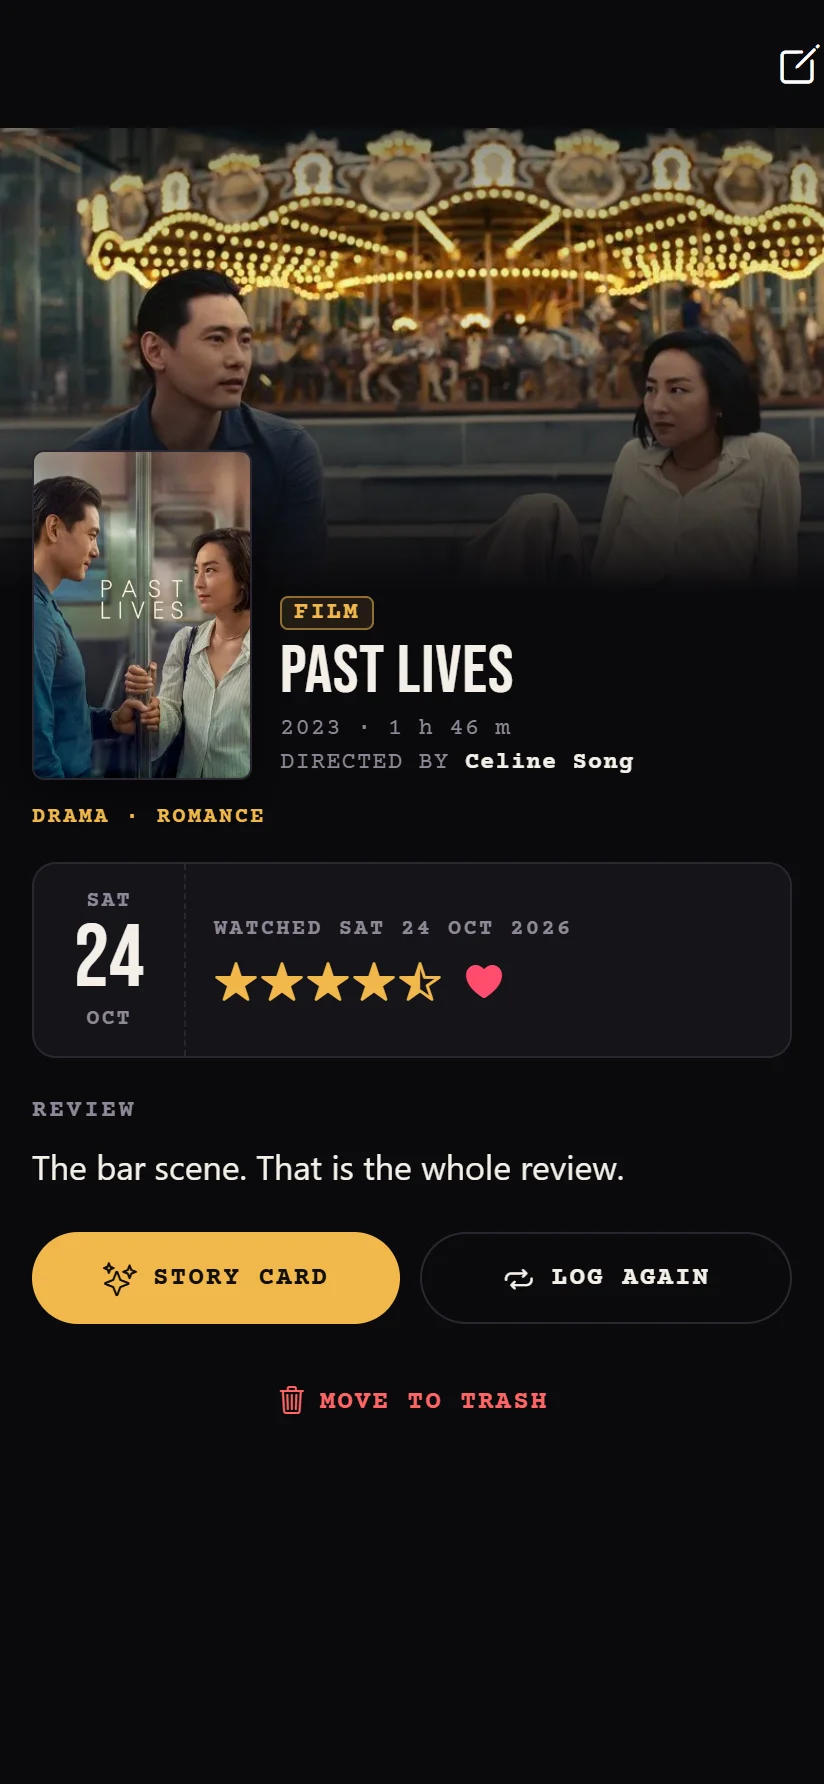
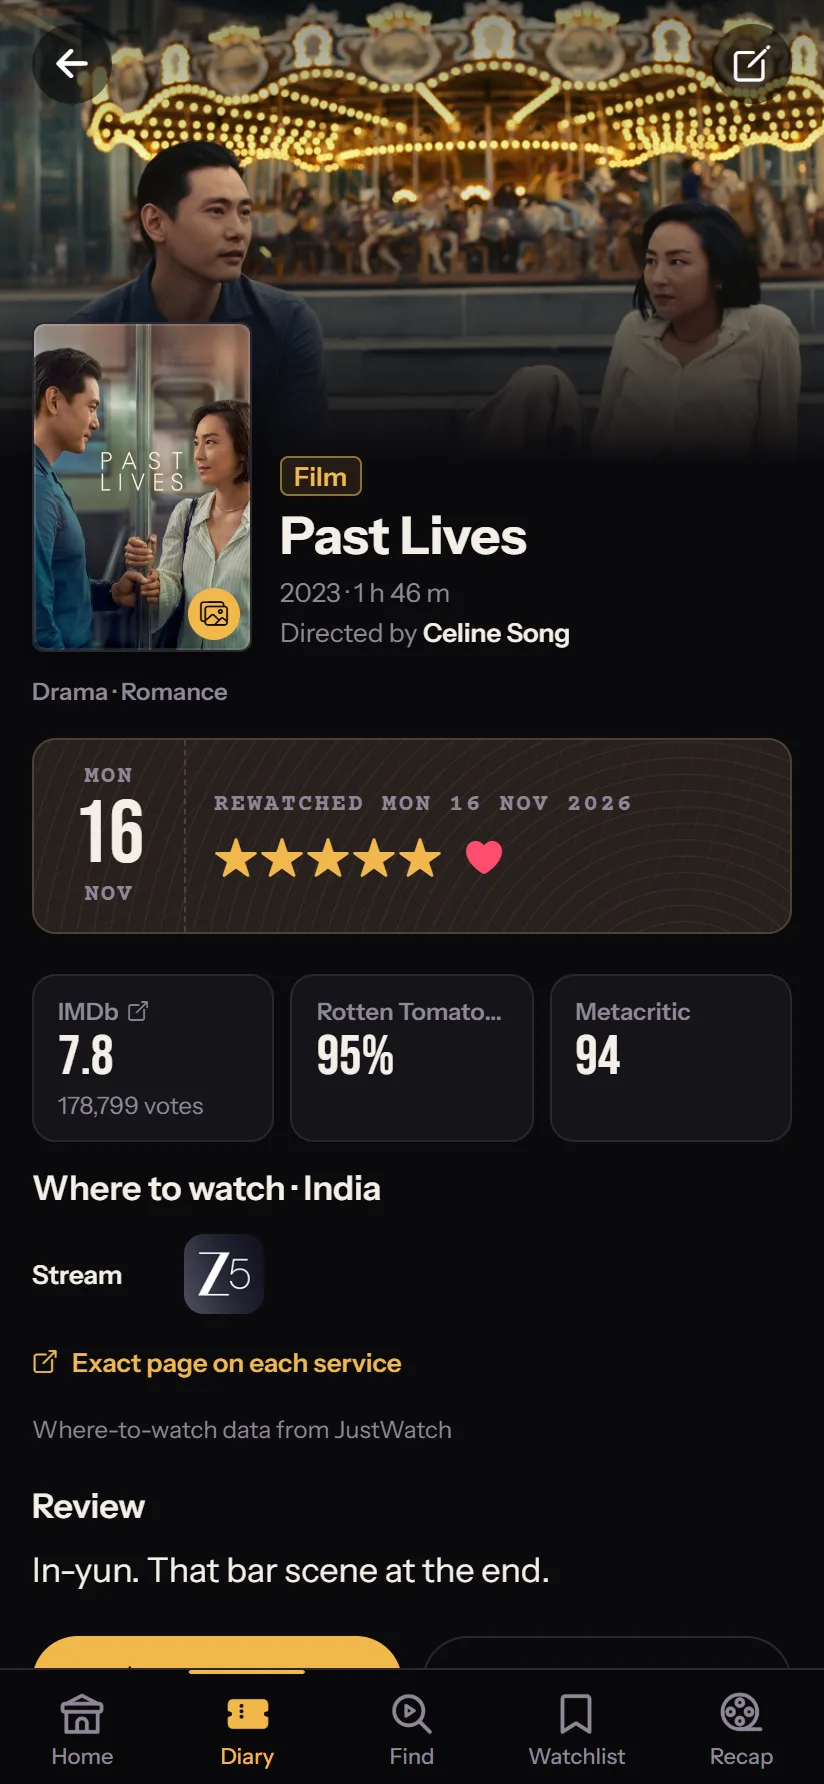
Phone screens from Watch Heart 1.7.0: the diary, Past Lives and the watchlist pick, with alt text to match

diff --git a/index.html b/index.html
@@ -45,7 +45,7 @@
         <ul class="facts" data-reveal style="--i:3"><li>Free, no ads</li><li>No account needed</li><li>Films, series and anime</li></ul>
       </div>
     </div>
-    <figure class="hero-media"><div class="phone" data-reveal style="--i:2"><img src="assets/screens/diary.webp" width="824" height="1784" alt="The diary: October as a reel of film, each viewing a ticket stub with its poster, stars and a heart" fetchpriority="high"></div></figure>
+    <figure class="hero-media"><div class="phone" data-reveal style="--i:2"><img src="assets/screens/diary.webp" width="824" height="1784" alt="The diary: November as a reel of film, each viewing a ticket stub with its poster, stars and a heart" fetchpriority="high"></div></figure>
   </section>
 
   <!-- Three things it does, one picture each -->
@@ -65,7 +65,7 @@
             <li>Who you watched it with, and spoilers hidden</li>
           </ul>
         </div>
-        <figure class="row-media"><div class="phone" data-reveal><img src="assets/screens/entry.webp" width="824" height="1784" alt="Past Lives in the diary: watched Saturday, four and a half stars, loved, with a one-line review" loading="lazy" decoding="async"></div></figure>
+        <figure class="row-media"><div class="phone" data-reveal><img src="assets/screens/entry.webp" width="824" height="1784" alt="Past Lives in the diary: rewatched Monday 16 November, five stars, loved, with a one-line review" loading="lazy" decoding="async"></div></figure>
       </article>
 
       <article id="stories" class="row" aria-labelledby="f2">
@@ -102,7 +102,7 @@
             <li>Where to watch it, from JustWatch</li>
           </ul>
         </div>
-        <figure class="row-media"><div class="phone" data-reveal><img src="assets/screens/pick.webp" width="824" height="1784" alt="Tonight’s feature: the watchlist picks Nosferatu, recommended by Sam" loading="lazy" decoding="async"></div></figure>
+        <figure class="row-media"><div class="phone" data-reveal><img src="assets/screens/pick.webp" width="824" height="1784" alt="Your next watch: the watchlist picks Blue Eye Samurai, on Netflix" loading="lazy" decoding="async"></div></figure>
       </article>
     </div>
   </section>
